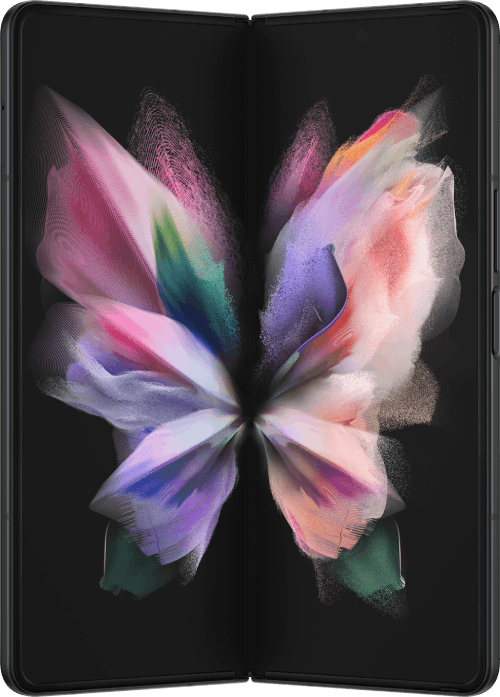
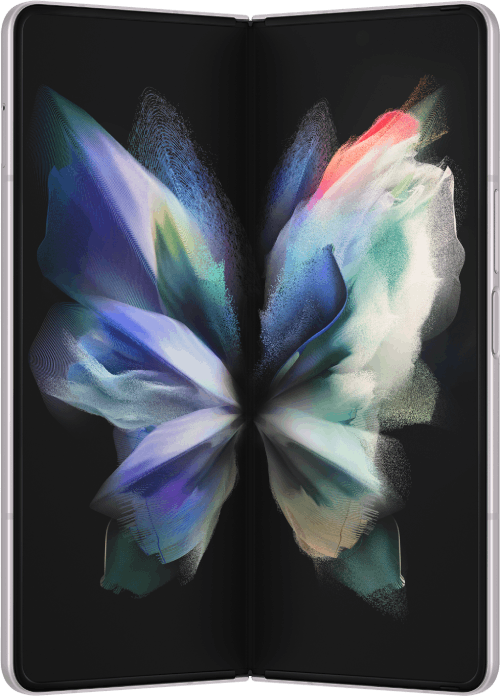
change images and some styling

diff --git a/index.html b/index.html
@@ -128,6 +128,7 @@
                     mr-lg-0
                     ml-lg-auto
                     mb-3 mb-lg-0
+                    carousel-image
                   "
                 >
                   <a
@@ -145,6 +146,7 @@
                     align-self-center
                     mx-lg-0 mx-md-5 mx-sm-3 mx-1
                     mr-lg-auto
+                    carousel-text
                   "
                 >
                   <h2 class="">Embrace hybrid workplaces with open arms</h2>
@@ -186,6 +188,7 @@
                     mr-lg-0
                     ml-lg-auto
                     mb-3 mb-lg-0
+                    carousel-image
                   "
                 >
                   <a
@@ -205,6 +208,7 @@
                     align-self-center
                     mx-lg-0 mx-md-5 mx-sm-3 mx-1
                     mr-lg-auto
+                    carousel-text
                   "
                 >
                   <h2 class="">
@@ -249,6 +253,7 @@
                     mr-lg-0
                     ml-lg-auto
                     mb-3 mb-lg-0
+                    carousel-image
                   "
                 >
                   <a
@@ -266,6 +271,7 @@
                     align-self-center
                     mx-lg-0 mx-md-5 mx-sm-3 mx-1
                     mr-lg-auto
+                    carousel-text
                   "
                 >
                   <h2 class="">
@@ -310,6 +316,7 @@
                     mr-lg-0
                     ml-lg-auto
                     mb-3 mb-lg-0
+                    carousel-image
                   "
                 >
                   <a
@@ -327,6 +334,7 @@
                     align-self-center
                     mx-lg-0 mx-md-5 mx-sm-3 mx-1
                     mr-lg-auto
+                    carousel-text
                   "
                 >
                   <h2 class="">
@@ -371,6 +379,7 @@
                     mr-lg-0
                     ml-lg-auto
                     mb-3 mb-lg-0
+                    carousel-image
                   "
                 >
                   <a
@@ -388,6 +397,7 @@
                     align-self-center
                     mx-lg-0 mx-md-5 mx-sm-3 mx-1
                     mr-lg-auto
+                    carousel-text
                   "
                 >
                   <h2 class="">Inspiring new ways of digital learning</h2>
@@ -429,6 +439,7 @@
                     mr-lg-0
                     ml-lg-auto
                     mb-3 mb-lg-0
+                    carousel-image
                   "
                 >
                   <a
@@ -446,6 +457,7 @@
                     align-self-center
                     mx-lg-0 mx-md-5 mx-sm-3 mx-1
                     mr-lg-auto
+                    carousel-text
                   "
                 >
                   <h2 class="">

diff --git a/style.css b/style.css
@@ -402,7 +402,7 @@ vertical-align: middle;*/
 .fw-title {
   font-family: "SamsungSharpSans", "SamsungSharpSans-Regular", Arial, Helvetica,
     sans-serif;
-  color: #666666 !important;
+  color: black !important;
   font-size: 1.8rem;
 }
 
@@ -549,7 +549,7 @@ vertical-align: middle;*/
   padding-top: 34px;
   font-family: "SamsungSharpSans", "SamsungSharpSans-Regular";
   text-align: center;
-  color: #808080;
+  color: black;
 }
 
 /*** border for glance icons ****/
@@ -781,6 +781,9 @@ vertical-align: middle;*/
   .bizsol-title {
     font-size: 1.5rem;
   }
+  .carousel-control-next, .carousel-control-prev {
+    display: none;
+  }
 }
 
 /** X-Small devices (portrait phones, less than 576px) **/
@@ -790,7 +793,7 @@ vertical-align: middle;*/
   padding-top:0;
 }*/
   .navbar-h2 {
-    font-size: 1.5rem;
+    font-size: 1.8rem;
   }
   .main-container {
     padding-top: 0;
@@ -926,9 +929,9 @@ vertical-align: middle;*/
   .carousel-item img {
     height: auto;
   }
-  .headliner {
+  /* .headliner {
     height: 4rem;
-  }
+  } */
   .image-mobtech {
     width: 75%;
     text-align: center;
@@ -963,6 +966,10 @@ vertical-align: middle;*/
     font-family: "SamsungOne";
     line-height: 1.2rem;
     font-size: 1.2rem;
+  }
+
+  .carousel-control-next, .carousel-control-prev {
+    display: none;
   }
 }
 
@@ -1184,7 +1191,7 @@ vertical-align: middle;*/
 #subCarousel {
   display: flex;
   width: 80% !important;
-  margin: 0 auto;
+  margin: 15px auto 0;
 }
 
 .tabbed-area {
@@ -1307,4 +1314,8 @@ ul.slick-dots {
 #myCarousel {
   max-width: 1600px;
   margin: 0 auto;
+}
+
+#myCarousel .carousel-image {
+  margin-top: 15px;
 }

diff --git a/lifan.js b/lifan.js
@@ -157,12 +157,12 @@ $(document).ready(function () {
       subCarousel.slick("refresh");
       myCarousel.carousel('pause');
     } else {
-      // myCarousel.carousel('pause');
-      myCarousel.carousel('cycle');
+      myCarousel.carousel('pause');
+      // myCarousel.carousel('cycle');
     }
   })
 
   myCarousel.carousel({
-    interval: 5000,
+    // interval: 5000,
   })
 });
